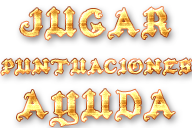
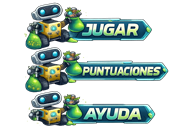
Update assets

diff --git a/app/src/main/java/com/ldm/juegowalle/juego/PantallaMaximasPuntuaciones.java b/app/src/main/java/com/ldm/juegowalle/juego/PantallaMaximasPuntuaciones.java
@@ -13,7 +13,7 @@ public class PantallaMaximasPuntuaciones extends Pantalla {
         super(juego);
 
         for (int i = 0; i < 5; i++) {
-            lineas[i] = (i + 1) + ". " + Configuraciones.maxPuntuaciones[i];
+            lineas[i] = (i + 1) + " " + Configuraciones.maxPuntuaciones[i];
         }
     }
 
@@ -41,7 +41,7 @@ public class PantallaMaximasPuntuaciones extends Pantalla {
         Graficos g = juego.getGraphics();
 
         g.drawPixmap(Assets.fondo, 0, 0);
-        g.drawPixmap(Assets.menuprincipal, 64, 20, 0, 42, 196, 42);
+        g.drawPixmap(Assets.menuprincipal, 64, 20, 0, 49, 196, 43);
 
         int y = 100;
         for (int i = 0; i < 5; i++) {
@@ -62,17 +62,75 @@ public class PantallaMaximasPuntuaciones extends Pantalla {
                 continue;
             }
 
-            int srcX;
-            int srcWidth;
-            if (character == '.') {
-                srcX = 200;
-                srcWidth = 10;
-            } else {
-                srcX = (character - '0') * 20;
-                srcWidth = 20;
+            int srcX = 0;
+            int srcY = 0;
+            int srcWidth = 0;
+            int srcHeight = 0;
+            
+            switch (character) {
+                case '0':
+                    srcX = 10;
+                    srcY = 19;
+                    srcWidth = 36;
+                    srcHeight = 39;
+                    break;
+                case '1':
+                    srcX = 52;
+                    srcY = 19;
+                    srcWidth = 36;
+                    srcHeight = 39;
+                    break;
+                case '2':
+                    srcX = 88;
+                    srcY = 19;
+                    srcWidth = 36;
+                    srcHeight = 39;
+                    break;
+                case '3':
+                    srcX = 128;
+                    srcY = 19;
+                    srcWidth = 36;
+                    srcHeight = 39;
+                    break;
+                case '4':
+                    srcX = 165;
+                    srcY = 19;
+                    srcWidth = 36;
+                    srcHeight = 39;
+                    break;
+                case '5':
+                    srcX = 10;
+                    srcY = 79;
+                    srcWidth = 38;
+                    srcHeight = 39;
+                    break;
+                case '6':
+                    srcX = 52;
+                    srcY = 79;
+                    srcWidth = 36;
+                    srcHeight = 39;
+                    break;
+                case '7':
+                    srcX = 88;
+                    srcY = 79;
+                    srcWidth = 36;
+                    srcHeight = 39;
+                    break;
+                case '8':
+                    srcX = 126;
+                    srcY = 79;
+                    srcWidth = 39;
+                    srcHeight = 39;
+                    break;
+                case '9':
+                    srcX = 165;
+                    srcY = 79;
+                    srcWidth = 36;
+                    srcHeight = 39;
+                    break;
             }
 
-            g.drawPixmap(Assets.numeros, x, y, srcX, 0, srcWidth, 32);
+            g.drawPixmap(Assets.numeros, x, y, srcX, srcY, srcWidth, srcHeight);
             x += srcWidth;
         }
     }

diff --git a/app/src/main/java/com/ldm/juegowalle/juego/PantallaJuego.java b/app/src/main/java/com/ldm/juegowalle/juego/PantallaJuego.java
@@ -233,7 +233,7 @@ public class PantallaJuego extends Pantalla {
     private void drawGameOverUI() {
         Graficos g = juego.getGraphics();
         g.drawPixmap(Assets.finjuego, 62, 100);
-        g.drawPixmap(Assets.botones, 128, 200, 0, 128, 64, 64);
+        g.drawPixmap(Assets.botones, 128, 200, 0, 118, 64, 64);
         g.drawLine(0, 416, 480, 416, Color.BLACK);
     }
 
@@ -247,18 +247,75 @@ public class PantallaJuego extends Pantalla {
                 continue;
             }
 
-            int srcX;
-            int srcWidth;
-
-            if (character == '.') {
-                srcX = 200;
-                srcWidth = 10;
-            } else {
-                srcX = (character - '0') * 20;
-                srcWidth = 20;
+            int srcX = 0;
+            int srcY = 0;
+            int srcWidth = 0;
+            int srcHeight = 0;
+            
+            switch (character) {
+                case '0':
+                    srcX = 10;
+                    srcY = 19;
+                    srcWidth = 36;
+                    srcHeight = 39;
+                    break;
+                case '1':
+                    srcX = 52;
+                    srcY = 19;
+                    srcWidth = 36;
+                    srcHeight = 39;
+                    break;
+                case '2':
+                    srcX = 88;
+                    srcY = 19;
+                    srcWidth = 36;
+                    srcHeight = 39;
+                    break;
+                case '3':
+                    srcX = 128;
+                    srcY = 19;
+                    srcWidth = 36;
+                    srcHeight = 39;
+                    break;
+                case '4':
+                    srcX = 165;
+                    srcY = 19;
+                    srcWidth = 36;
+                    srcHeight = 39;
+                    break;
+                case '5':
+                    srcX = 10;
+                    srcY = 79;
+                    srcWidth = 38;
+                    srcHeight = 39;
+                    break;
+                case '6':
+                    srcX = 52;
+                    srcY = 79;
+                    srcWidth = 36;
+                    srcHeight = 39;
+                    break;
+                case '7':
+                    srcX = 88;
+                    srcY = 79;
+                    srcWidth = 36;
+                    srcHeight = 39;
+                    break;
+                case '8':
+                    srcX = 126;
+                    srcY = 79;
+                    srcWidth = 39;
+                    srcHeight = 39;
+                    break;
+                case '9':
+                    srcX = 165;
+                    srcY = 79;
+                    srcWidth = 36;
+                    srcHeight = 39;
+                    break;
             }
 
-            g.drawPixmap(Assets.numeros, x, y, srcX, 0, srcWidth, 32);
+            g.drawPixmap(Assets.numeros, x, y, srcX, srcY, srcWidth, srcHeight);
             x += srcWidth;
         }
     }
